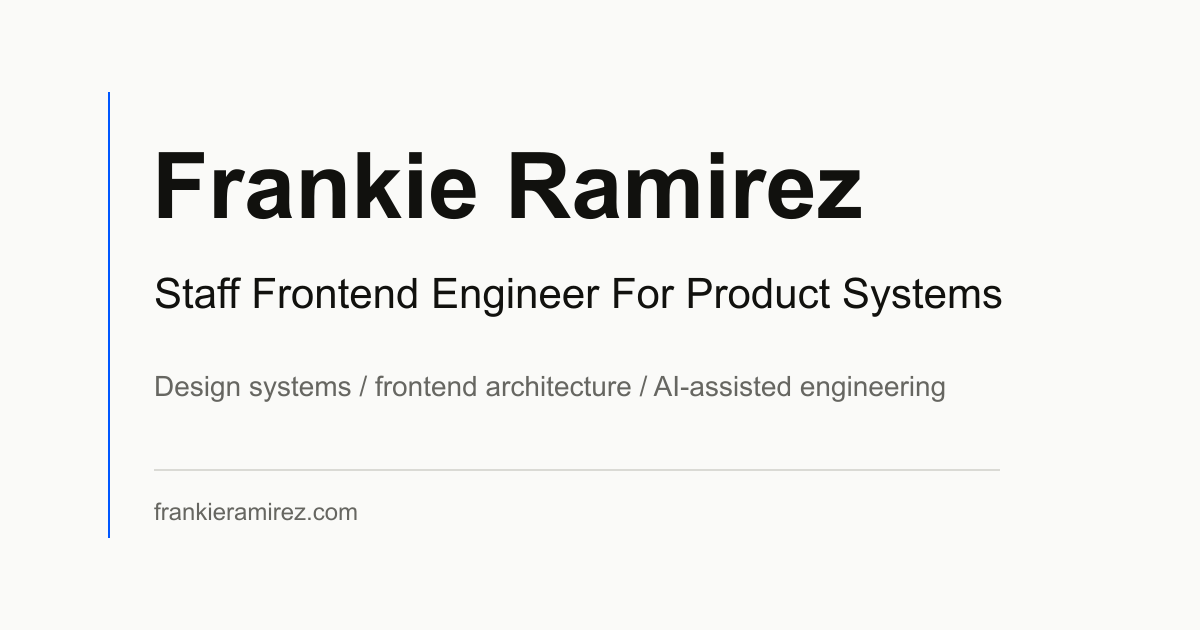
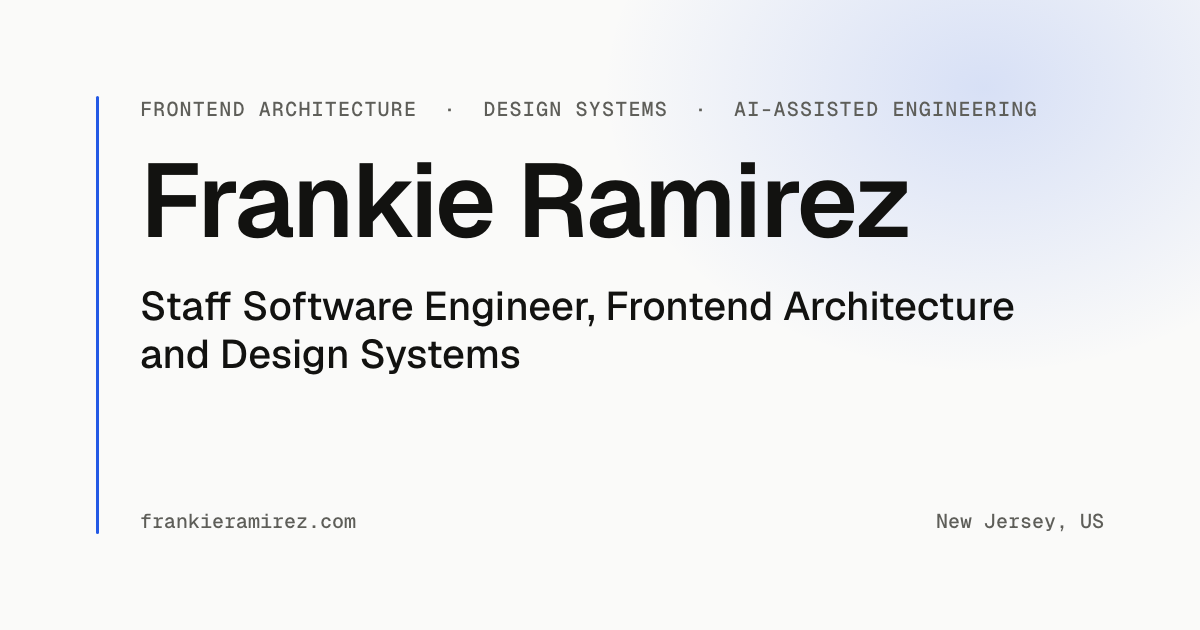
Audit batch 2: one positioning line, named employer rows, new OG image
Positioning
- Use "Staff Software Engineer, Frontend Architecture and Design
  Systems" in the page title, hero kicker, footer, README, and the OG
  image. Five surfaces had five different lines before.
- Web manifest name is just "Frankie Ramirez"
- JSON-LD gains the hello@ email

Work ledger
- The four employer rows now say Luxury Presence instead of
  Confidential, matching the resume the page already links to
- Evidence rewritten around outcomes from the resume: 87,000+ agents on
  the CRM product, object model 10 to 5 and navigation 14 to 2 on the
  workforce IA, 6 PRs with 0 fix-ups against the prior 20 with 5 on the
  guarded migration. Ticket counts are gone.
- "Redacted" label removed; rows without links leave the column empty
- Section intro no longer claims company names stay out

Contact
- Heading is "Where I Fit." and the long sentence moves into the
  paragraph, so the h2 stops filling the viewport at 76px

README
- Working model table matches the site's three layers

OG image
- Regenerated at 1200x630 with Geist, the site palette, and the new line

Claude-Session: https://claude.ai/code/session_01Ru5HJnaT8rn6KBGmdPKpFF

diff --git a/src/styles/components/header.css b/src/styles/components/header.css
@@ -28,7 +28,6 @@
 .site-nav a,
 .header-contact,
 .ledger-links a,
-.ledger-links span,
 .contact-links a,
 .site-footer a,
 .not-found-links a {

diff --git a/src/styles/components/ledger.css b/src/styles/components/ledger.css
@@ -134,10 +134,6 @@
       }
     }
   }
-
-  span {
-    color: var(--secondary);
-  }
 }
 
 @supports not (grid-template-columns: subgrid) {

diff --git a/README.md b/README.md
@@ -1,6 +1,6 @@
 # Frankie Ramirez
 
-**Staff Frontend Engineer.** I build design systems and the frontend architecture that keeps product surfaces coherent as teams scale.
+**Staff Software Engineer, Frontend Architecture and Design Systems.** I build design systems and the frontend architecture that keeps product surfaces coherent as teams scale.
 
 The work shows up in tokens, component APIs, contribution paths, and the habits that keep large orgs shipping without local one-offs becoming permanent. Based in New Jersey, with 14+ years across CRM, proptech, SaaS, and the design-system work that ties them together.
 
@@ -15,11 +15,11 @@ The work shows up in tokens, component APIs, contribution paths, and the habits 
 
 ---
 
-### Operating model
+### Working model
 
-| Primitives | Composition | Governance |
+| Primitive layer | Workflow layer | Adoption layer |
 | --- | --- | --- |
-| Tokens, states, accessibility, type | Component APIs and product patterns | Contribution model, reviews, adoption |
+| Tokens, states, semantics, accessibility, type | Routes, data contracts, review flows, eval tasks | Docs, contribution paths, PR review, release guardrails |
 
 ### Where I am most useful
 
